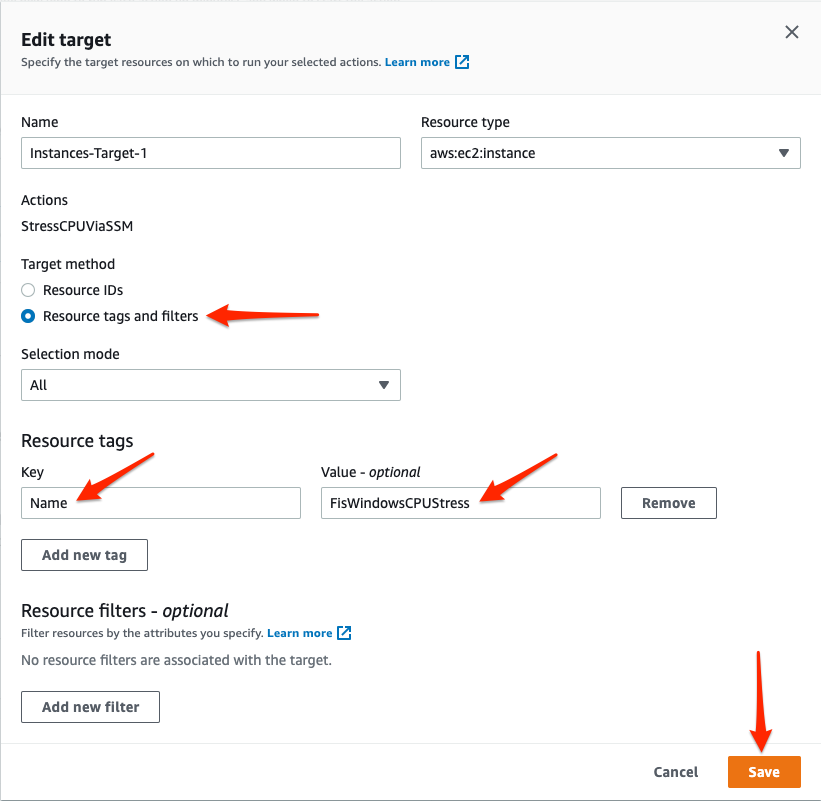
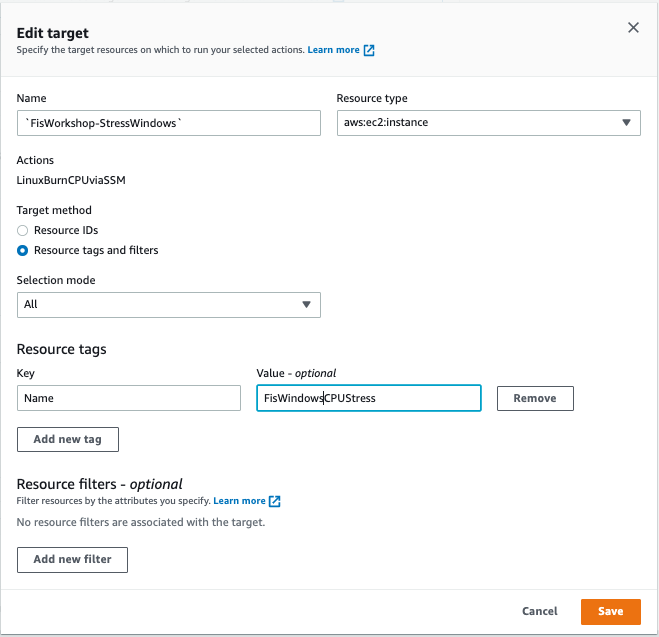
WIP: clean up SSM section

diff --git a/workshop/content/030_basic_content/040_ssm/040_windows_stress/_index.md b/workshop/content/030_basic_content/040_ssm/040_windows_stress/_index.md
@@ -7,7 +7,11 @@ weight = 40
 This section requires that you have an RDP client on your local machine. This section cannot be performed from a cloud9 instance. 
 {{% /notice %}}
 
-In this section we will run a CPU Stress test using AWS Fault Injection Simulator against an Amazon Windows EC2 Instance. The Windows CPU stress test will use a custom SSM command document. We will do the following: 
+## Experiment idea
+
+In this section we are exploring tooling so we will start without a hypothesis. However, we will provide some learnings and next steps at the end.
+
+Specifically, in this section we will run a CPU Stress test using AWS Fault Injection Simulator against an Amazon Windows EC2 Instance. The Windows CPU stress test will use a custom SSM command document. We will do the following: 
 
 1. Create experiment template to stress CPU.
 2. Reset password on Windows Instance.
@@ -16,39 +20,42 @@ In this section we will run a CPU Stress test using AWS Fault Injection Simulato
 
 ## Experiment Setup 
 
-### Create CPU Stress Experiment
+{{% notice note %}}
+We are assuming that you know how to set up a basic FIS experiment and will focus on things specific to this experiment. If you need a refresher see the previous [**First Experiment**]({{< ref "030_basic_content/030_basic_experiment/" >}}) section.
+{{% /notice %}}
 
-First, lets create our stress experiment. We can do this programmatically but we will walk through this on the console. 
+### General template setup
 
-1. Open the [AWS Fault Injection Simulator Console](https://console.aws.amazon.com/fis/home?#Home). Once in the Fault Injection Simulator console, lets click on "Experiment templates" on the left side pane. 
+* Create a new experiment template
+  * Add `Name` tag of `WindowsBurnCPUviaSSM`
+  * Add `Description` of `Inject CPU stress on Windows`
+  * Select `FisCpuStress-FISRole` as execution role
 
-2. Click on "Create experiment template" on  the upper right hand side of the console to start creating our experiment template. 
+### Action definition 
 
-3. Next we will enter the description of the experiment and choose the IAM Role. Let's put `WindowsBurnCPUviaSSM` for the description. The IAM role allows the FIS service permissions to execute the actions on your behalf. As part of the CloudFormation stack a role was created for this experiment that starts with `FisCpuStress-FISRole`, select that role. Please examine the CloudFormation template or IAM Role for the policies in this role. 
+In the "Actions" section select the **"Add Action"** button. 
 
-{{< img "Winexperimentdescription.png" "Win Experiment Description and Role" >}}
+"Name" the action as `StressCPUViaSSM`, and under "Action Type" select the `aws:ssm:send-command` action. Currently there is no out of box Action for Windows CPU Stress Testing, so we are using the send-command action along with a command document that was deployed by our CloudFormation template. To view this document please reference the `WinStressDocument` resource in the [**CloudFormation template**](https://github.com/aws-samples/aws-fault-injection-simulator-workshop/blob/main/resources/templates/cpu-stress/CPUStressInstances.yaml). 
 
-4. After we have entered a description and a role, we need to setup our actions. Click the "Add action" button in the Actions Section. 
+To find the ARN of the document that was created by the template, open a new tab and browse to the [**CloudFormation console**](https://console.aws.amazon.com/cloudformation/home?#/stacks?filteringStatus=active&filteringText=FisCpuStress&viewNested=true&hideStacks=false), select **"Stacks"**, select the stack named **"FisCpuStress"**, then select **"Outputs"**. Copy the value of the `WinStressDocumentArn` entry as you will need it in the next step.
 
-Enter a "Name" of `StressCPUViaSSM`, and under "Action Type" select the `aws:ssm:send-command` action. Currently there is not an out of box Action for Windows CPU Stress Testing, so we are using the send-command action along with a command document that was deployed by our CloudFormation template. To view this document please reference the `WinStressDocument` resource in the [CloudFormation template](https://github.com/aws-samples/aws-fault-injection-simulator-workshop/blob/main/resources/templates/cpu-stress/CPUStressInstances.yaml). 
-
-To find the ARN of the document that was created by the template, open a new tab and browse to the [CloudFormation console](https://console.aws.amazon.com/cloudformation/home?#/stacks?filteringStatus=active&filteringText=FisCpuStress&viewNested=true&hideStacks=false), select "Stacks", click on the stack named "FisCpuStress", then select "Outputs". Copy the value of the `WinStressDocumentArn` entry as you will need it in the next step.
-
-Return to the FIS console and enter the ARN you copied into the "documentArn" field. Then set the "documentParameters" field to `{"durationSeconds":120}` which is passed to the script and the "duration" field to `2` which tells FIS how long to wait for a result. Finally click "Save". This action will use [AWS Systems Manager Run Command](https://docs.aws.amazon.com/systems-manager/latest/userguide/execute-remote-commands.html) to run the `FisCpuStress-WinStressDocument` document against our targets for two minutes. 
+Return to the FIS console and enter the ARN you copied into the "documentArn" field. Then set the "documentParameters" field to `{"durationSeconds":120}` which is passed to the script and the "duration" field to `2` minutes which tells FIS how long to wait for a result. Leave the default “Target” `Instances-Target-1` and  select **"Save"**. 
 
 {{< img "WinStressActionSettings.png" "Action Settings" >}}
 
-5. Once we have saved the action, let's edit our targets. Click on "Edit" in "Instaces-Target-1" card inside the "Targets" card. To select our target instances by tag select "Resource tags and filters" and keep selection mode `ALL`. Click "Add new tag" and enter a "Key" of `Name` and a "Value" of `FisWindowsCPUStress`. Finally click "Save". 
+This action will use [**AWS Systems Manager Run Command**](https://docs.aws.amazon.com/systems-manager/latest/userguide/execute-remote-commands.html) to run the `FisCpuStress-WinStressDocument` document against our targets for two minutes. 
+
+### Target selection
+
+For this action we need to designate EC2 instance targets on which to run the commands. Go to the “Targets” section, select the `Instances-Target-1` section, and select **“Edit”**.
+
+You may leave the default name `Instances-Target-1` but for maintainability we rcommend using descriptive target names. Change the name to `FisWorkshop-StressWindows` (this will automatically update the name in the action as well) and make sure “Resource type” is set to `aws:ec2:instances`. To select our target instances by tag select "Resource tags and filters" and keep selection mode `ALL`. Select **"Add new tag"** and enter a "Key" of `Name` and a "Value" of `FisWindowsCPUStress`. Finally select **"Save"**. 
 
 {{< img "WinEditTarget-rev1.png" "Target Settings" >}}
 
-6. Once we have actions and targets specified we can click on the "Create Experiment" button toward the bottom of the console to create our template. 
+### Creating template without stop conditions
 
-**_Note:_** For this experiment we did not assign a stop condition, for a workshop or lab this is acceptable. However, it would be considered best practice to have stop conditions on your experiments so they don't go out of bounds. Because we do not have a stop condition we are being asked to confirm creation of this experiment. Type in `create` and then hit the "Create Experiment" button again to confirm. 
-
-{{< img "ConfirmCreate.png" "Confirm Creation" >}}
-
-We have created our Windows CPU stress experiment template, now lets connect to our EC2 Instance.
+Select **"Create experiment template"** and confirm that you wish to create a template without stop conditions.
 
 ## Validation procedure
 
@@ -83,20 +90,20 @@ aws ssm send-command \
 
 We now need to connect to our EC2 Instance so we can observe the CPU being stressed. We are going to do this by using the port forwarding capability of AWS Systems Manager Session Manager and using RDP.
 
-1. First make sure that the [Session Manager plugin for the AWS CLI](https://docs.aws.amazon.com/systems-manager/latest/userguide/session-manager-working-with-install-plugin.html) is installed on your local machine.
-2. Run the following command first, this will forward local port 56788 to port 3389 on the Windows EC2 Instance. Replace the **<instanceid>** with the instance ID of the Windows Instance.
+1. First make sure that the [**Session Manager plugin for the AWS CLI**](https://docs.aws.amazon.com/systems-manager/latest/userguide/session-manager-working-with-install-plugin.html) is installed on your local machine.
+2. Run the following command first, this will securely forward local port 56788 to port 3389 on the Windows EC2 Instance. Note that we are targeting a specific instance by passing the `TMP_INSTANCE` variable from above.
 
     ```bash
     # This presumes you set TMP_INSTANCE (see above)
     aws ssm start-session --target ${TMP_INSTANCE} --document-name AWS-StartPortForwardingSession --parameters '{"portNumber":["3389"],"localPortNumber":["56788"]}'
     ```
 
-3. Once the command says waiting for connections you can launch the RDP client and enter `localhost:56788` for the server name and login as `administrator` with the password you set in the previous section. 
+3. Once the command says `waiting for connections` you can launch the RDP client and enter `localhost:56788` for the server name and login as `administrator` with the password you set in the previous section. 
 
     {{% expand "Troubleshooting connectivity" %}}
-When running the `start-session` command above, you may get a message about a missing session manager plugin. If you do, follow the [link in the message](https://docs.aws.amazon.com/systems-manager/latest/userguide/session-manager-working-with-install-plugin.html) and install the plugin.
+When running the `start-session` command above, you may get a message about a missing session manager plugin. If you do, follow the [**link in the message**](https://docs.aws.amazon.com/systems-manager/latest/userguide/session-manager-working-with-install-plugin.html) and install the plugin.
 
-The second likely issue you are going to run into is a failed password reset, e.g. because your password did not meet the complexity criteria. To verify that the password reset succeeded, navigate to the [AWS Systems Manager Run Command console](https://console.aws.amazon.com/systems-manager/run-command/executing-commands), select "Command history", and locate the `AWS-RunPowerShellScript` that you executed above. If in doubt compare the `CommandId` value from the CLI invocation with the "Command ID" value on the console.
+The second likely issue you are going to run into is a failed password reset, e.g. because your password did not meet the complexity criteria. To verify that the password reset succeeded, navigate to the [**AWS Systems Manager Run Command console**](https://console.aws.amazon.com/systems-manager/run-command/executing-commands), select "Command history", and locate the `AWS-RunPowerShellScript` that you executed above. If in doubt compare the `CommandId` value from the CLI invocation with the "Command ID" value on the console.
 
 {{< img "run-command-history-1.en.png" "Run command history" >}}
 
@@ -113,36 +120,36 @@ Then examine the Error output:
 
 
 
-4. Once you have RDP'ed into the Windows Instance, launch task manager by right clicking on the menu bar and selecting "Task Manager". Click on "More details" button and then on the "Performance" tab so you can see the CPU graph as shown below. 
+4. Once you have RDP'ed into the Windows Instance, launch task manager by right clicking on the menu bar and selecting "Task Manager" (or by using the SHIFT-CTRL-ESC keyboard sortcut). Click on **"More details"** button and then on the **"Performance"** tab so you can see the CPU graph as shown below. 
 
 {{< img "WinNoStress.png" "Task Manager" >}}
 
-
 ## Run CPU Stress Experiment
 
-Let's head back to the [AWS Fault Injection Simulator Console](https://console.aws.amazon.com/fis/home?#Home).
+{{% notice note %}}
+We are assuming that you know how to set up a basic FIS experiment and will focus on things specific to this experiment. If you need a refresher see the previous [**First Experiment**]({{< ref "030_basic_content/030_basic_experiment/" >}}) section.
+{{% /notice %}}
 
-1. Once in the Fault Injection Simulator console, lets click on "Experiment templates" again on the left side pane. 
+Keep the RDP session with "Task Manager" running. In a new browser window navigate to the [**AWS Fault Injection Simulator Console**](https://console.aws.amazon.com/fis/home?#Home) and start the experiment:
 
-2. Select the experiment with the `WindowsBurnCPUviaSSM` description, then click on the "Actions" button and select "Start". This will allow us to enter additional tags before starting our experiment. Then click on the "Start experiment" button. 
+* use the `WindowsBurnCPUviaSSM`
+* add a `Name` tag of `FisWorkshopWindowsStress1`
+* confirm that you want to start the experiment
+* ensure that the "State" is `Running`
 
-3. Next type in `start` and click on "Start Experiment" again to confirm you want to start the experiment. 
-
-{{< img "confirmstart.png" "Confirm Start" >}}
-
-This will take you to the running experiment that is started from the template. In the detail section of the experiment check `State` and you should see the experiment is initializing. Once the experiment is running, lets go back to the RDP session and observe the task manager graph. 
+Once the experiment is running, lets go back to the RDP session and observe the task manager graph. 
 
 Watch the CPU percentage, it should hit 100% for a few minutes and then return back to 0%. Once we have observed the action we can logout of the Windows Instance and hit CTRL + C on the window you ran the port forwarding command to close the session. 
  
 {{< img "WindowsStressed.png" "Windows Stressed" >}}
 
+Congratulations for completing this lab! In this lab you walked through running an experiment that took action within a Windows EC2 Instance using AWS Systems Manager and a custom run command.  Using the integration between Fault Injection Simulator and AWS Systems Manager you can run scripted actions within an EC2 Instance. Through this integration you can script events against your applications or run other chaos engineering tools and frameworks. 
+
 ## Learning and improving
 
-Congrats for completing this lab! In this lab you walked through running an experiment that took action within a Windows EC2 Instance using AWS Systems Manager and a custom run command.  Using the integration between Fault Injection Simulator and AWS Systems Manager you can run scripted actions within an EC2 Instance. Through this integration you can script events against your applications or run other chaos engineering tools and frameworks. 
-
-Since this instance wasn't doing anything there aren't any actions. To think about how to use this to test a hypothesis and make an improvement consider building custom SSM scripts to run custom scenarios. We will cover some of these in the **Common Scenarios** section.
+Since this instance wasn't doing anything there aren't any actions. To think about how to use this to test a hypothesis and make an improvement consider building custom SSM scripts to run custom scenarios. We will cover some of these in the [**Common Scenarios**]({{< ref "030_basic_content/090_scenarios" >}}) section.
 
 ## Cleanup
 
-If you created an additional `CpuStress` CloudFormation stack in the **FIS SSM Setup** section, make sure to delete that stack to avoid incurring additional costs.
+If you created an additional `CpuStress` CloudFormation stack in the [**FIS SSM Setup**]({{< ref "030_basic_content/040_ssm/010_setup" >}}) section, make sure to delete that stack to avoid incurring additional costs.
 

diff --git a/workshop/content/030_basic_content/040_ssm/020_linux_stress/_index.md b/workshop/content/030_basic_content/040_ssm/020_linux_stress/_index.md
@@ -3,53 +3,61 @@ title = "Linux CPU Stress Experiment"
 weight = 20
 +++
 
-In this section we will run a CPU Stress test using AWS Fault Injection Simulator against an Amazon Linux EC2 Instance. The Linux [CPU stress](https://docs.aws.amazon.com/fis/latest/userguide/actions-ssm-agent.html#fis-ssm-docs) test is an out of the box FIS action. We will do the following: 
+## Experiment idea
+
+In this section we are exploring tooling so we will start without a hypothesis. However, we will provide some learnings and next steps at the end.
+
+Specifically, in this section we will run a CPU Stress test using AWS Fault Injection Simulator against an Amazon Linux EC2 Instance. The Linux [**CPU stress**](https://docs.aws.amazon.com/fis/latest/userguide/actions-ssm-agent.html#fis-ssm-docs) test is an out of the box FIS action. We will do the following: 
 
 1. Create experiment template to stress CPU.
 2. Connect to a Linux EC2 Instance and run the `top` command.
 3. Start experiment and observe results.
 
-## Experiment Setup
+## Experiment setup
 
-### Create CPU Stress Experiment Template
+{{% notice note %}}
+We are assuming that you know how to set up a basic FIS experiment and will focus on things specific to this experiment. If you need a refresher see the previous [**First Experiment**]({{< ref "030_basic_content/030_basic_experiment/" >}}) section.
+{{% /notice %}}
 
-First, lets create our stress experiment. We can do this programmatically but we will walk through this on the console. 
+### General template setup
 
-1. Open the [AWS Fault Injection Simulator Console](https://console.aws.amazon.com/fis/home?#Home). Once in the Fault Injection Simulator console, lets click on "Experiment templates" on the left side pane. 
+* Create a new experiment template
+  * Add `Name` tag of `LinuxBurnCPUviaSSM`
+  * Add `Description` of `Inject CPU stress on Linux`
+  * Select `FisCpuStress-FISRole` as execution role
 
-2. Click on "Create experiment template" on  the upper right hand side of the console to start creating our experiment template. 
+### Action definition 
 
-3. Next we will enter the description of the experiment and choose the IAM Role. Let's put `LinuxBurnCPUviaSSM` for the description. The IAM role allows the FIS service permissions to execute actions on your behalf. As part of the CloudFormation stack a role was created for this experiment that starts with `FisCpuStress-FISRole`, select that role. Please examine the CloudFormation template or IAM Role for the policies in this role. 
+In the "Actions" section select the **"Add Action"** button. 
 
-{{< img "experimentdescription.png" "Linux Experiment Description and Role" >}}
-
-4. After we have entered a description and a role, we need to setup our actions. Click on the "Add Action" button in the Actions section. 
-
-Name the Action as `StressCPUViaSSM`, and under "Action Type" select `aws:ssm:send-command/AWSFIS-Run-Cpu-Stress`. This is an out of the box action to run stress test on Linux Instances using the [stress-ng](https://kernel.ubuntu.com/git/cking/stress-ng.git/) tool. Set the "documentParameters" field to `{"DurationSeconds":120}` which is passed to the script and the "duration" field to `2` which tells FIS how long to wait for a result. Finally click "Save". This action will use [AWS Systems Manager Run Command](https://docs.aws.amazon.com/systems-manager/latest/userguide/execute-remote-commands.html) to run the AWSFIS-Run-Cpu-Stress command document against our targets for two minutes.
+Name the Action as `StressCPUViaSSM`, and under "Action Type" select `aws:ssm:send-command/AWSFIS-Run-Cpu-Stress`. This is an out of the box action to run stress test on Linux Instances using the [**stress-ng**](https://kernel.ubuntu.com/git/cking/stress-ng.git/) tool. Set the "documentParameters" field to `{"DurationSeconds":120}` which is passed to the script and the "duration" field to `2` minutes which tells FIS how long to wait for a result. Leave the default “Target” `Instances-Target-1` and select **"Save"**. 
 
 {{< img "StressActionSettings.png" "Action Settings" >}}
 
-5. Once we have saved the action, let's edit our targets. Click on "Edit" in "Instaces-Target-1" card inside the "Targets" card. To select our target instances by tag select "Resource tags and filters" and keep selection mode `ALL`. Click "Add new tag" and enter a "Key" of `Name` and a "Value" of `FisLinuxCPUStress`. Finally click "Save". 
+This action will use [**AWS Systems Manager Run Command**](https://docs.aws.amazon.com/systems-manager/latest/userguide/execute-remote-commands.html) to run the `AWSFIS-Run-Cpu-Stress` command document against our targets for two minutes.
 
-{{< img "EditTarget-rev1.png" "Edit Targets" >}}
+### Target selection
 
-6. Once we have actions and targets specified we can click on the "Create Experiment" button toward the bottom of the console to create our template. 
+For this action we need to designate EC2 instance targets on which to run the commands. Go to the “Targets” section, select the `Instances-Target-1` section, and select **“Edit”**.
 
-**_Note:_** For this experiment we did not assign a stop condition, for a workshop or lab this is acceptable. However, it would be considered best practice to have stop conditions on your experiments so they don't go out of bounds. Because we do not have a stop condition we are being asked to confirm creation of this experiment. Type in `create` and then hit the "Create Experiment" button again to confirm. 
+You may leave the default name `Instances-Target-1` but for maintainability we rcommend using descriptive target names. Change the name to `FisWorkshop-StressLinux` (this will automatically update the name in the action as well) and make sure “Resource type” is set to `aws:ec2:instances`. To select our target instances by tag select "Resource tags and filters" and keep selection mode `ALL`. Select **"Add new tag"** and enter a "Key" of `Name` and a "Value" of `FisLinuxCPUStress`. Finally select **"Save"**. 
 
-{{< img "ConfirmCreate.png" "Confirm Creation" >}}
+{{< img "EditTarget-rev1.png" "Target Settings" >}}
 
-We have created our Linux CPU stress experiment template, now lets connect to our EC2 Instance.
+### Creating template without stop conditions
+
+Select **"Create experiment template"** and confirm that you wish to create a template without stop conditions.
+
 
 ## Validation procedure
 
-We will use the linux `top` system command to observe the increased CPU load. To do this we now need to connect to our EC2 Instance so we can observe the CPU being stressed. Head over to the [EC2 Console](https://console.aws.amazon.com/ec2/v2/home?#Instances:instanceState=running). 
+We will use the linux `top` system command to observe the increased CPU load. To do this we now need to connect to our EC2 Instance so we can observe the CPU being stressed. Head over to the [**EC2 Console**](https://console.aws.amazon.com/ec2/v2/home?#Instances:instanceState=running). 
 
 1. Once at the EC2 Console lets select our instance named `FisLinuxCpuStress` and click on the "Connect" button. 
 
 {{< img "SelectConnect-rev1.png" "Select Instance" >}}
 
-2. Select "Session Manager" and click on "Connect".
+2. Select **"Session Manager"** and select **"Connect"**.
 
 {{< img "SessionManagerConnect.png" "Connect to EC2" >}}
 
@@ -65,28 +73,27 @@ You should now see a continuously updating display similar to the next screensho
 
 ## Run CPU Stress Experiment
 
-Let's head back to the [AWS Fault Injection Simulator Console](https://console.aws.amazon.com/fis/home?#Home).
+{{% notice note %}}
+We are assuming that you know how to set up a basic FIS experiment and will focus on things specific to this experiment. If you need a refresher see the previous [**First Experiment**]({{< ref "030_basic_content/030_basic_experiment/" >}}) section.
+{{% /notice %}}
 
-1. Once in the Fault Injection Simulator console, lets click on "Experiment templates" again on the left side pane. 
+Keep the EC2 instance session with `top` running. In a new browser window navigate to the [**AWS Fault Injection Simulator Console**](https://console.aws.amazon.com/fis/home?#Home) and start the experiment:
 
-2. Select the experiment template with the `LinuxBurnCPUviaSSM` description, then click on the "Actions" button and select "Start". This will allow us to enter additional tags before starting our experiment. Then click on the "Start Experiment" button. 
-
-3. Next type in `start` and click on "Start Experiment" again to confirm you want to start the experiment. 
-
-{{< img "confirmstart.png" "Confirm Start" >}}
-
-This will take you to the running experiment that is started from the template. In the detail section of the experiment check `State` and you should see the experiment is initializing. Once the experiment is running, lets head back to the open session on the EC2 Instance. 
+* use the `LinuxBurnCPUviaSSM`
+* add a `Name` tag of `FisWorkshopLinuxStress1`
+* confirm that you want to start the experiment
+* ensure that the "State" is `Running`
 
 {{< img "RunningState.png" "Experiment State" >}}
 
-Watch the CPU percentage, it should hit 100% for a few minutes and then return back to 0%. Once we have observed the action we can click the `Terminate` button to terminate our Session Manager session. 
+In the EC2 terminal window watch the CPU percentage displayed by `top`: it should hit 100% for a few minutes and then return back to 0%. Once we have observed the action we can click the `Terminate` button to terminate our Session Manager session. 
 
 {{< img "linuxStressed.png" "Linux Stressed" >}}
 
-Congrats for completing this lab! In this lab you walked through running an experiment that took action within a Linux EC2 Instance using AWS Systems Manager.  Using the integration between Fault Injection Simulator and AWS Systems Manager you can run scripted actions within an EC2 Instance. Through this integration you can script events against your applications or run other chaos engineering tools and frameworks. 
+Congratulations for completing this lab! In this lab you walked through running an experiment that took action within a Linux EC2 Instance using AWS Systems Manager.  Using the integration between Fault Injection Simulator and AWS Systems Manager you can run scripted actions within an EC2 Instance. Through this integration you can script events against your applications or run other chaos engineering tools and frameworks. 
 
 ## Learning and improving
 
-Since this instance wasn't doing anything, there aren't any actions. To think about how to use this to test a hypothesis and make an improvement, consider running the same experiment against the ASG instances from the **First Experiment** section. Maybe you could use this to tune the optimal CPU levels for scaling up or down?
+Since this instance wasn't doing anything, there aren't any actions. To think about how to use this to test a hypothesis and make an improvement, consider running the same experiment against the ASG instances from the [**First Experiment**]({{< ref "030_basic_content/030_basic_experiment" >}}) section. Maybe you could use this to tune the optimal CPU levels for scaling up or down?
 
 

diff --git a/workshop/content/030_basic_content/040_ssm/030_custom_ssm_docs/_index.md b/workshop/content/030_basic_content/040_ssm/030_custom_ssm_docs/_index.md
@@ -5,38 +5,38 @@ weight = 30
 
 ## Pre-configured SSM documents
 
-The linux CPU stress experiment we saw in the previous section used one of the [pre-configured SSM documents](https://docs.aws.amazon.com/fis/latest/userguide/actions-ssm-agent.html#fis-ssm-docs) to run a script on our Linux instance. 
+The linux CPU stress experiment we saw in the previous section used one of the [**pre-configured SSM documents**](https://docs.aws.amazon.com/fis/latest/userguide/actions-ssm-agent.html#fis-ssm-docs) to run a script on our Linux instance. 
 
-To find the script, navigate to the [AWS Systems Manager console](https://console.aws.amazon.com/systems-manager/documents?), scroll down in the left-hand menu all the way to the bottom to "Documents", select "Owned by Amazon", and search for `AWSFIS`. Note that this search may take a few seconds to display results.
+To find the script, navigate to the [**AWS Systems Manager console**](https://console.aws.amazon.com/systems-manager/documents?), scroll down in the left-hand menu all the way to the bottom to **"Documents"**, select **"Owned by Amazon"**, and search for `AWSFIS`. Note that this search may take a few seconds to display results.
 
 {{< img "find-ssm.en.png" "Locate FIS SSM documents" >}}
 
-To inspect the script, click on the script name, i.e. `AWSFIS-Run-CPU-Stress`, then select the "Content" tab. 
+To inspect the script, click on the script name, i.e. `AWSFIS-Run-CPU-Stress`, then select the **"Content"** tab. 
 
 {{< img "look-at-ssm.en.png" "Examine SSM documents" >}}
 
-The document is a YAML file defining two `aws:runShellScript` actions, `InstallDependencies` to install the `stress-ng` package, and `ExecuteStressNg` to inject CPU stress. 
+The document is a YAML file defining two `aws:runShellScript` actions: `InstallDependencies` to install the `stress-ng` package, and `ExecuteStressNg` to inject CPU stress. 
 
 ## Custom SSM documents
 
-Currently AWS does not provide a CPU stress document for Windows, but we can create our own. For more information on writing SSM documents please see these resources
+Currently AWS does not provide a CPU stress document for Windows, but we can create our own as shown in the next section. For more information on writing SSM documents please see these resources:
 
-* [AWS Systems Manager documentation](https://docs.aws.amazon.com/systems-manager/latest/userguide/sysman-ssm-docs.html)
-* [Writing your own SSM documents blog](https://aws.amazon.com/blogs/mt/writing-your-own-aws-systems-manager-documents/)
-* [AWS SSM workshop](https://workshop.aws-management.tools/ssm/capability_hands-on_labs/documents/)
+* [**AWS Systems Manager documentation**](https://docs.aws.amazon.com/systems-manager/latest/userguide/sysman-ssm-docs.html)
+* [**Writing your own SSM documents blog**](https://aws.amazon.com/blogs/mt/writing-your-own-aws-systems-manager-documents/)
+* [**AWS SSM workshop**](https://workshop.aws-management.tools/ssm/capability_hands-on_labs/documents/)
 
-If you want to see an example how one might inject stress, you can have a look at the `WinStressDocument` resource in the [CloudFormation template](https://github.com/aws-samples/aws-fault-injection-simulator-workshop/blob/main/resources/templates/cpu-stress/CPUStressInstances.yaml). Alternatively you can follow the same search procedure as for the AWS owned documents but search the "Owned by me" or "Shared by me" tabs instead of "Owned by AWS".
+If you want to see an example how one might inject stress, you can have a look at the `WinStressDocument` resource in the [**CloudFormation template**](https://github.com/aws-samples/aws-fault-injection-simulator-workshop/blob/main/resources/templates/cpu-stress/CPUStressInstances.yaml). Alternatively you can follow the same search procedure as for the AWS owned documents but search the **"Owned by me"** or **"Shared by me"** tabs instead of **"Owned by AWS"**.
 
 For additional SSM sample documents relating to FIS see these resources
 
-* https://github.com/adhorn/chaos-ssm-documents
+* **https://github.com/adhorn/chaos-ssm-documents**
 
 ### Working with custom SSM documents in FIS
 
 While writing custom SSM documents is outside the scope of this workshop, there are a few aspects of SSM documents you should be aware of:
 
-* **Document ARN** - FIS requires the full SSM document ARN. However, the only time SSM will list the full document ARN is if the document is shared from another account. However, based on the document ID you can create the ARN based on this format string: `arn:${AWS::Partition}:ssm:${AWS::Region}:${AWS::AccountId}:document/${WinStressDocument}`
+* **Document ARN** - FIS requires the full SSM document ARN. The ARN can easily be constructed from the document name (and the owner account ID if the template is shared with you) using this format string: `arn:${AWS::Partition}:ssm:${AWS::Region}:${AWS::AccountId}:document/${WinStressDocument}`
 * **Exit status** - Shell script convention is to signal success with a return/exit value of `0` and a failure with any non-zero numeric value. If FIS detects a non-zero exit status on an SSM script it will mark the action as "Failed", terminate all running actions, cancel queued actions, invoke any outstanding roll-back actions, cancel experiment execution, and mark the overall experiment as "Failed".
-* **Duration** - FIS actions have a "Duration" setting and will stop action execution if the action has not finished within this time period. For SSM actions this will ["cancel"](https://docs.aws.amazon.com/systems-manager/latest/userguide/rc-cancel.html) the command. If the command has a sequence of steps, this will result in only some of the steps being executed. 
+* **Duration** - FIS actions have a "Duration" setting and will stop action execution if the action has not finished within this time period. For SSM actions this will ["**cancel**"](https://docs.aws.amazon.com/systems-manager/latest/userguide/rc-cancel.html) the command. If the command has a sequence of steps, this will result in only some of the steps being executed. 
 * **onCancel** / **onFailure** - SSM provides you with a means to ensure that automation can fail / clean-up safely by providing `onCancel` and `onFailure` [properties](https://docs.aws.amazon.com/systems-manager/latest/userguide/automation-actions.html) on each step. These properties allow designating clean-up steps to perform.
 

diff --git a/workshop/content/030_basic_content/040_ssm/010_setup/_index.md b/workshop/content/030_basic_content/040_ssm/010_setup/_index.md
@@ -3,7 +3,7 @@ title = "FIS SSM Send Command Setup"
 weight = 10
 +++
 
-For this section we will use Linux and Windows instances created specifically for the purpose of enabling FIS SSM commands. As shown in the diagram below, SSM access to the instance [requires an instance role](https://docs.aws.amazon.com/systems-manager/latest/userguide/setup-instance-profile.html#instance-profile-policies-overview) with the `AmazonSSMManagedInstanceCore` policy attached. Additionally FIS access to SSM is controlled via the execution policy as shown in the [**First Experiment**]({{< ref "030_basic_experiment" >}}) section. 
+For this section we will use Linux and Windows instances created specifically for the purpose of enabling FIS SSM commands. As shown in the diagram below, SSM access to the instance [**requires an instance role**](https://docs.aws.amazon.com/systems-manager/latest/userguide/setup-instance-profile.html#instance-profile-policies-overview) with the `AmazonSSMManagedInstanceCore` policy attached. Additionally FIS access to SSM is controlled via the execution policy as shown in the [**First Experiment**]({{< ref "030_basic_experiment" >}}) section. 
 
 {{< img "StressTest-with-user.png" "Stress test architecture" >}}
 
@@ -15,7 +15,7 @@ The resources above have been created as part of the [**Start the workshop**]({{
 
 ## CloudFormation deployment example
 
-To demonstrate how to configure EC2 instances with SSM access we will use the AWS CLI with CloudFormation to provision our instances. You can inspect the [template](https://github.com/aws-samples/aws-fault-injection-simulator-workshop/blob/main/resources/templates/cpu-stress/CPUStressInstances.yaml) to see how it creates an instance role with the AWS Managed policy named *AmazonSSMManagedInstanceCore* attached, and how it attaches it to our instances via an Instance Profile. 
+To demonstrate how to configure EC2 instances with SSM access we will use the AWS CLI with CloudFormation to provision our instances. You can inspect the [**template**](https://github.com/aws-samples/aws-fault-injection-simulator-workshop/blob/main/resources/templates/cpu-stress/CPUStressInstances.yaml) to see how it creates an instance role with the AWS Managed policy named *AmazonSSMManagedInstanceCore* attached, and how it attaches it to our instances via an Instance Profile. 
 
 If you want to try this yourself, using the Cloud9 instance you created in the [**Start the workshop**]({{< ref "020_starting_workshop/040_create_workspace" >}}) section, clone the repository if you have not done so yet:
 
@@ -32,7 +32,7 @@ cd aws-fault-injection-simulator-workshop/resources/templates/cpu-stress/
 
 In this folder you can examine the template file named `CPUStressInstances.yaml`.
 
-Finally, deploy the stack. By default, this template will deploy into the default VPC. In the context of this workshop, we want to ensure the instances are deployed into the public subnet created in the [**Start the workshop**]({{< ref "020_starting_workshop/050_create_stack" >}}) section. We will use the first public subnet created by the initial setup. You could do this manually by navigating to the [CloudFormation console](https://us-east-2.console.aws.amazon.com/cloudformation/home?region=us-east-2#/stacks?filteringStatus=active&filteringText=FisStackVpc&viewNested=true&hideStacks=false), selecting the `FisStackVpc` stack, selecting `Outputs` and picking the subnet ID associated with `FisPub1`. For your convenience we've added that as a CLI query in the code below:
+Finally, deploy the stack. By default, this template will deploy into the default VPC. In the context of this workshop, we want to ensure the instances are deployed into the public subnet created in the [**Start the workshop**]({{< ref "020_starting_workshop/050_create_stack" >}}) section. We will use the first public subnet created by the initial setup. You could do this manually by navigating to the [**CloudFormation console**](https://us-east-2.console.aws.amazon.com/cloudformation/home?region=us-east-2#/stacks?filteringStatus=active&filteringText=FisStackVpc&viewNested=true&hideStacks=false), selecting the `FisStackVpc` stack, selecting `Outputs` and picking the subnet ID associated with `FisPub1`. For your convenience we've added an equivalent CLI query in the code below:
 
 ```bash
 # Query public subnet from VPC stack
@@ -48,7 +48,7 @@ aws cloudformation create-stack \
 
 ```
 
-The stack will take a few minutes to complete. 
+The stack will take a few minutes to complete creation. 
 You can monitor the progress from the CloudFormation Console. 
 Once this is finished you can continue to the next section.
 

diff --git a/workshop/content/030_basic_content/040_ssm/_index.en.md b/workshop/content/030_basic_content/040_ssm/_index.en.md
@@ -5,6 +5,6 @@ weight = 50
 
 In this section, we will demonstrate how you can use AWS Systems Manager (SSM) along with AWS Fault Injection Simulator (FIS) to emulate faults within an EC2 Instance.
 
-AWS FIS does not need an agent for actions affecting the AWS control plane like the ones we have worked with thus far, such as stop instances or failing over RDS Databases. However, there are actions that require us to initiate commands within the operating system of the EC2 Instance, such as affecting CPU or Memory consumption, or terminating processes. For these types of actions AWS FIS can use [AWS Systems Manager (SSM)](https://docs.aws.amazon.com/systems-manager/latest/userguide/what-is-systems-manager.html) and the [SSM Agent](https://docs.aws.amazon.com/systems-manager/latest/userguide/ssm-agent.html). This approach provides you with the access controls to grant FIS limited access to your instances under the [shared responsibility model](https://aws.amazon.com/compliance/shared-responsibility-model/).
+AWS FIS does not need an agent for actions affecting the AWS control plane like the ones we have worked with thus far, such as stopping instances or failing over RDS Databases. However, there are actions that require us to initiate commands within the operating system of the EC2 Instance, such as affecting CPU or Memory consumption, or terminating processes. For these types of actions AWS FIS can use [**AWS Systems Manager (SSM)**](https://docs.aws.amazon.com/systems-manager/latest/userguide/what-is-systems-manager.html) and the [**SSM Agent**](https://docs.aws.amazon.com/systems-manager/latest/userguide/ssm-agent.html). This approach provides you with the access controls to grant FIS limited access to your instances under the [**shared responsibility model**](https://aws.amazon.com/compliance/shared-responsibility-model/).
 
 In the following sections we will show you how to use the built-in SSM actions and how to build your own SSM documents to create custom actions.
